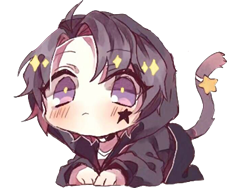
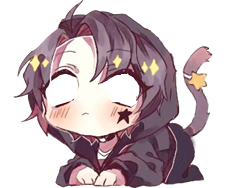
moveEyes v0.1 changePic

diff --git a/src/AlexMovement/MoveEyes.java b/src/AlexMovement/MoveEyes.java
@@ -1,0 +1,5 @@
+package AlexMovement;
+
+public class MoveEyes {
+	
+}
